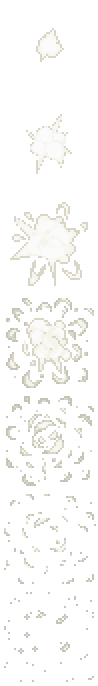
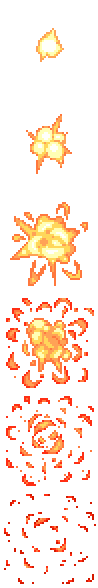
Finished dark intent. (mostly) finished combustion. Hallowed magnum tweaks

diff --git a/Content/MiscPreHardmodeWeapons/Combustion.cs b/Content/MiscPreHardmodeWeapons/Combustion.cs
@@ -13,7 +13,7 @@ public class Combustion : ModItem
 
 	public override void SetStaticDefaults() {
 		Item.staff[Type] = true;
-    }
+	}
 
 	public override void SetDefaults() {
 		Item.width = 44;
@@ -35,6 +35,16 @@ public class Combustion : ModItem
 	}
 
 	public override bool Shoot(Player player, EntitySource_ItemUse_WithAmmo source, Vector2 position, Vector2 velocity, int type, int damage, float knockback) {
+		//Dust particles
+		for (int i = 0; i < 20; i++) {
+			int dust = Dust.NewDust(position + (velocity.Normalized() * 50), 0, 0, DustID.Torch);
+			Main.dust[dust].noGravity = true;
+			Main.dust[dust].velocity = velocity.Normalized() * ((6 + i) * 0.3f) * Main.rand.NextFloat(0.9f, 1f);
+			Main.dust[dust].velocity = Main.dust[dust].velocity.RotatedByRandom(MathHelper.ToRadians(20f - i));
+			Main.dust[dust].scale = Main.rand.NextFloat(1f, 1.25f);
+		}
+
+		//Spawn projectile at cursor up to 50 tiles, blocked by solid tiles
 		Vector2 toMouse = position.DirectionTo(Main.MouseWorld);
 		Vector2 spawnPosition = Vector2.Zero;
 		float maxRange = 16 * 50;
@@ -55,7 +65,7 @@ public class Combustion : ModItem
 public class CombustionProjectile : ModProjectile
 {
 	public override void SetStaticDefaults() {
-		Main.projFrames[Projectile.type] = 7;
+		Main.projFrames[Projectile.type] = 6;
 	}
 
 	public override void SetDefaults() {
@@ -67,18 +77,55 @@ public class CombustionProjectile : ModProjectile
 		Projectile.DamageType = DamageClass.Magic;
 		Projectile.tileCollide = false;
 		Projectile.penetrate = -1;
+
+		Projectile.alpha = 30;
+	}
+
+	public override Color? GetAlpha(Color lightColor) {
+		return new Color(255 - Projectile.alpha, 255 - Projectile.alpha, 255 - Projectile.alpha, 255 - Projectile.alpha);
 	}
 
 	public override void AI() {
-		//Kill if underwater
-		if (Projectile.wet && !Projectile.lavaWet) {
-			Projectile.Kill();
-			return;
-		}
-
-		//Plays a sound on spawn
+		//On spawn effects
 		if (Projectile.ai[0] == 0) {
 			SoundEngine.PlaySound(SoundID.Item100, Projectile.position);
+
+			Projectile.rotation = Main.rand.NextFloat(MathHelper.TwoPi);
+
+			//Dust explosion
+			for (int i = 0; i < 20; i++) {
+				int ExplosionDust = Dust.NewDust(Projectile.position, Projectile.width, Projectile.height, DustID.Torch, 0f, 0f, 100);
+				Main.dust[ExplosionDust].noGravity = true;
+				Main.dust[ExplosionDust].position = Projectile.Center;
+				Main.dust[ExplosionDust].position += new Vector2 (Main.rand.Next(-10, 11), Main.rand.Next(-10, 11));
+				Main.dust[ExplosionDust].velocity = Vector2.One.RotatedByRandom(MathHelper.TwoPi) * Main.rand.NextFloat(1f, 4.5f);
+				Main.dust[ExplosionDust].scale = Main.rand.NextFloat(1f, 2.5f);
+			}
+			for (int i = 0; i < 10; i++) {
+				int ExplosionDust = Dust.NewDust(Projectile.position, Projectile.width, Projectile.height, DustID.SolarFlare, 0f, 0f, 100);
+				Main.dust[ExplosionDust].noGravity = true;
+				Main.dust[ExplosionDust].position = Projectile.Center;
+				Main.dust[ExplosionDust].position += new Vector2(Main.rand.Next(-10, 11), Main.rand.Next(-10, 11));
+				Main.dust[ExplosionDust].velocity = Vector2.One.RotatedByRandom(MathHelper.TwoPi) * Main.rand.NextFloat(1f, 4f);
+				Main.dust[ExplosionDust].scale = Main.rand.NextFloat(1.25f, 1.75f);
+			}
+
+			//Falling Dust
+			for (int i = 0; i < 4; i++) {
+				int ExplosionDust = Dust.NewDust(Projectile.position, Projectile.width, Projectile.height, DustID.Torch, 0f, 0f, 100);
+				Main.dust[ExplosionDust].position = Projectile.Center;
+				Main.dust[ExplosionDust].position += new Vector2(Main.rand.Next(-10, 11), Main.rand.Next(-10, 11));
+				Main.dust[ExplosionDust].velocity = Vector2.One.RotatedByRandom(MathHelper.TwoPi) * Main.rand.NextFloat(1f, 3f);
+				Main.dust[ExplosionDust].scale = Main.rand.NextFloat(0.5f, 1f);
+			}
+			for (int i = 0; i < 2; i++) {
+				int ExplosionDust = Dust.NewDust(Projectile.position, Projectile.width, Projectile.height, DustID.SolarFlare, 0f, 0f, 100);
+				Main.dust[ExplosionDust].position = Projectile.Center;
+				Main.dust[ExplosionDust].position += new Vector2(Main.rand.Next(-10, 11), Main.rand.Next(-10, 11));
+				Main.dust[ExplosionDust].velocity = Vector2.One.RotatedByRandom(MathHelper.TwoPi) * Main.rand.NextFloat(1f, 3f);
+				Main.dust[ExplosionDust].scale = Main.rand.NextFloat(0.75f, 1.25f);
+			}
+
 			Projectile.ai[0] = 1;
 		}
 
@@ -87,18 +134,34 @@ public class CombustionProjectile : ModProjectile
 			Projectile.frame++;
 			Projectile.frameCounter = 0;
 		}
-		else {
-			Projectile.frameCounter++;
+		Projectile.frameCounter++;
+
+		//light
+		if(Projectile.timeLeft > 15) {
+			Lighting.AddLight(Projectile.Center, Color.DarkOrange.ToVector3());
+		}
+		else if (Projectile.timeLeft > 10) {
+			Lighting.AddLight(Projectile.Center, new Color(255, 104, 0).ToVector3());
+		}
+		else if (Projectile.timeLeft > 5) {
+			Lighting.AddLight(Projectile.Center, Color.OrangeRed.ToVector3());
+		}
+		else
+			Lighting.AddLight(Projectile.Center, new Color(205, 50, 0).ToVector3());
+
+		//Fade out
+		if (Projectile.timeLeft <= 5) {
+			Projectile.alpha += 40;
 		}
 	}
 
 	public override void OnHitNPC(NPC target, NPC.HitInfo hit, int damageDone) {
 		//Inflicts 3 seconds of On Fire! on hit
-		target.AddBuff(BuffID.OnFire, 3 * 60);
+		target.AddBuff(BuffID.OnFire, Main.rand.Next(3, 7) * 60);
 	}
 
 	public override void OnHitPlayer(Player target, Player.HurtInfo info) {
 		//Inflicts 3 seconds of On Fire! on hit
-		target.AddBuff(BuffID.OnFire, 3 * 60);
+		target.AddBuff(BuffID.OnFire, Main.rand.Next(3, 7) * 60);
 	}
 }

diff --git a/Content/MiscPreHardmodeWeapons/DarkIntent.cs b/Content/MiscPreHardmodeWeapons/DarkIntent.cs
@@ -17,9 +17,10 @@ public class DarkIntent : ModItem
 		Item.width = 32;
 		Item.height = 32;
 
-		Item.DefaultToStaff(ModContent.ProjectileType<DarkIntentProjectile>(), 10f, 10, 10);
-		Item.damage = 10;
-		Item.knockBack = 10f;
+		Item.DefaultToStaff(ModContent.ProjectileType<DarkIntentProjectile>(), 5f, 30, 12);
+		Item.damage = 33;
+		Item.knockBack = 4f;
+		Item.UseSound = SoundID.Item72;
 
 		Item.SetShopValues(ItemRarityColor.Blue1, Item.sellPrice(gold: 1));
 	}
@@ -35,10 +36,52 @@ public class DarkIntent : ModItem
 public class DarkIntentProjectile : ModProjectile
 {
 	public override void SetDefaults() {
-		
+		Projectile.width = 4;
+		Projectile.height = 4;
+		Projectile.friendly = true;
+
+		Projectile.timeLeft = 300;
+		Projectile.DamageType = DamageClass.Magic;
+		Projectile.extraUpdates = 100;
+		Projectile.alpha = 255;
+
+		Projectile.penetrate = 3;
+	}
+
+	public override bool OnTileCollide(Vector2 oldVelocity) {
+		if (Projectile.penetrate <= 0) {
+			Projectile.Kill();
+			return true;
+		}
+
+		Projectile.penetrate--;
+
+		Projectile.velocity = Projectile.velocity.BounceOffTiles(oldVelocity);
+		Projectile.damage = (int)(Projectile.damage * 0.9f);
+		return false;
 	}
 
 	public override void AI() {
-		
+		//Produce dust in flight
+		Projectile.ai[0] += 1;
+		if (Projectile.ai[0] > 10) {
+			for (int i = 0; i < 4; i++) {
+				Vector2 dustPos = Projectile.position - (Projectile.velocity * (i * 0.25f));
+				int projDust = Dust.NewDust(dustPos, 1, 1, DustID.ShadowbeamStaff, default, default, default, Color.Purple);
+				Main.dust[projDust].position = dustPos;
+				Main.dust[projDust].scale = Main.rand.NextFloat(0.9f, 1.4f);
+				Main.dust[projDust].velocity *= 0.2f;
+			}
+		}
+	}
+
+	public override void OnHitNPC(NPC target, NPC.HitInfo hit, int damageDone) {
+		//Reduce damage by 10% on hit
+		Projectile.damage = (int)(Projectile.damage * 0.9f); 
+	}
+
+	public override void OnHitPlayer(Player target, Player.HurtInfo info) {
+		//Reduce damage by 10% on hit
+		Projectile.damage = (int)(Projectile.damage * 0.9f);
 	}
 }

diff --git a/Content/HardmodeOreGuns/HallowedMagnum.cs b/Content/HardmodeOreGuns/HallowedMagnum.cs
@@ -1,5 +1,6 @@
 using Terraria.Enums;
 using WATIGA.Common;
+using WATIGA.Content.NewAmmoTypes;
 
 namespace WATIGA.Content.HardmodeOreGuns;
 
@@ -41,7 +42,7 @@ public class HallowedMagnum : ModItem
 		velocity = velocity.RotatedByRandom(MathHelper.ToRadians(1f));
 
 		if (type == ProjectileID.Bullet) {
-			type = ProjectileID.BulletHighVelocity;
+			type = ModContent.ProjectileType<HolyShotProjectile>();
 		}
     }
 }